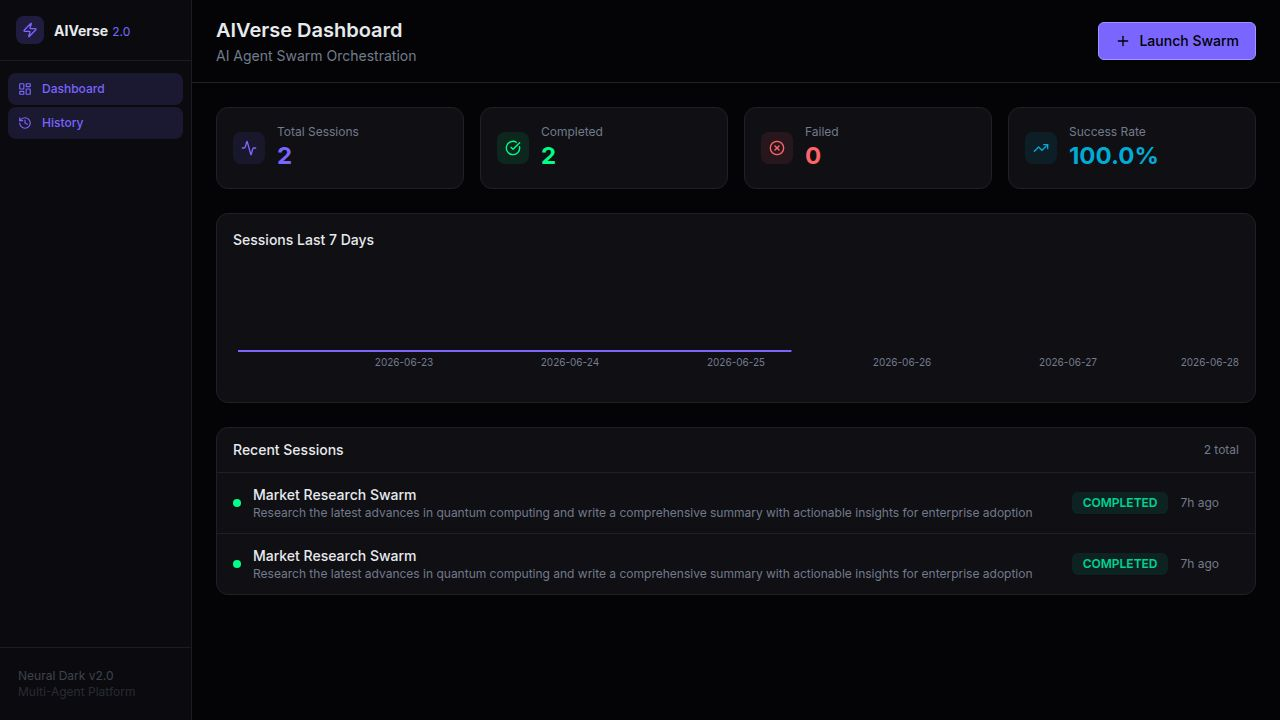
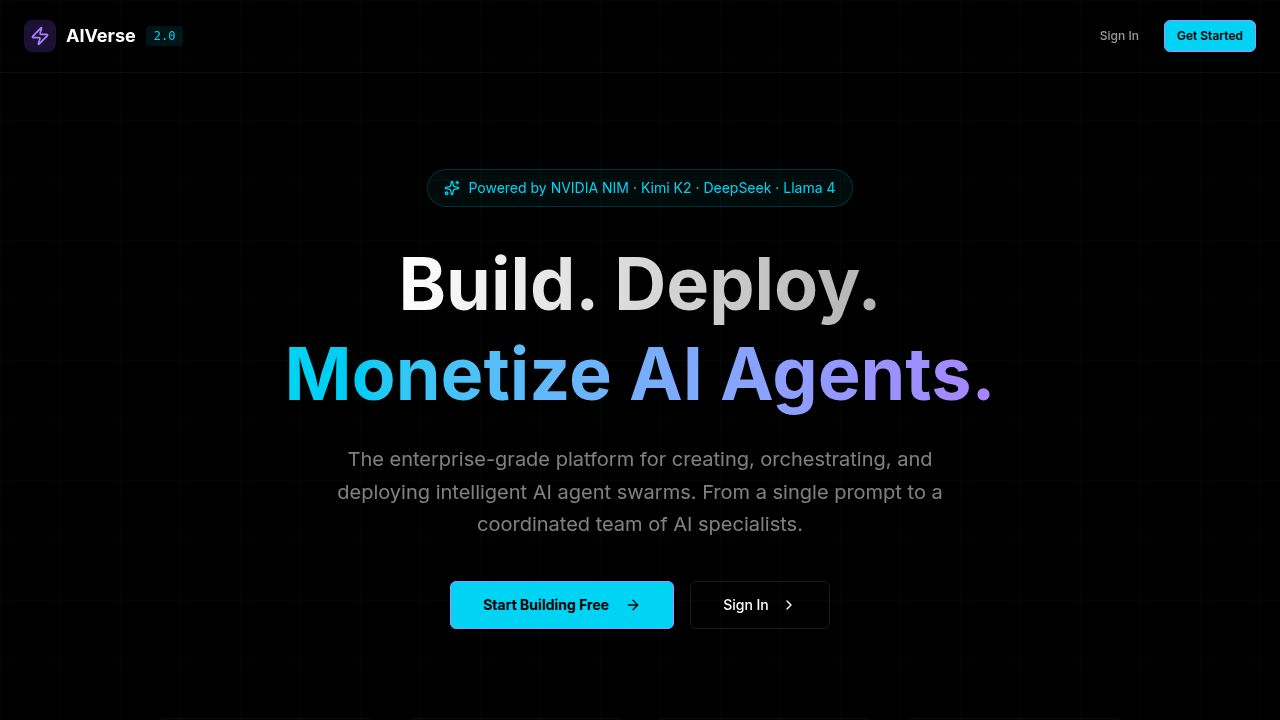
Update AI service configuration and error messages
Updates the environment variable name for the AI service from OPENROUTER_API_KEY to OPENAI_API_KEY and modifies the corresponding error message in `artifacts/api-server/src/routes/ai.ts`. The `opengraph.jpg` file was also included in the changes.

Replit-Commit-Author: Agent
Replit-Commit-Session-Id: dc0ed15c-9e3c-4228-8d6b-2840fa264c49
Replit-Commit-Checkpoint-Type: full_checkpoint
Replit-Commit-Event-Id: c3ec2884-a3fa-4f1d-b8a0-fbbf924c29b9
Replit-Commit-Screenshot-Url: https://storage.googleapis.com/screenshot-production-us-central1/211ec98a-4b19-4d78-a601-3eabe3bad4ff/dc0ed15c-9e3c-4228-8d6b-2840fa264c49/PGAz5nI
Replit-Helium-Checkpoint-Created: true

diff --git a/artifacts/api-server/src/routes/ai.ts b/artifacts/api-server/src/routes/ai.ts
@@ -3,7 +3,7 @@ import { logger } from "../lib/logger.js";
 
 const router: IRouter = Router();
 
-const OPENROUTER_API_KEY = process.env["OPENROUTER_API_KEY"] ?? "";
+const OPENROUTER_API_KEY = process.env["OPENAI_API_KEY"] ?? "";
 const OPENROUTER_URL = "https://openrouter.ai/api/v1/chat/completions";
 
 router.post("/ai/chat", async (req, res): Promise<void> => {
@@ -18,7 +18,7 @@ router.post("/ai/chat", async (req, res): Promise<void> => {
   };
 
   if (!OPENROUTER_API_KEY) {
-    res.status(503).json({ error: "AI service not configured — set OPENROUTER_API_KEY" });
+    res.status(503).json({ error: "AI service not configured — set OPENAI_API_KEY" });
     return;
   }
 